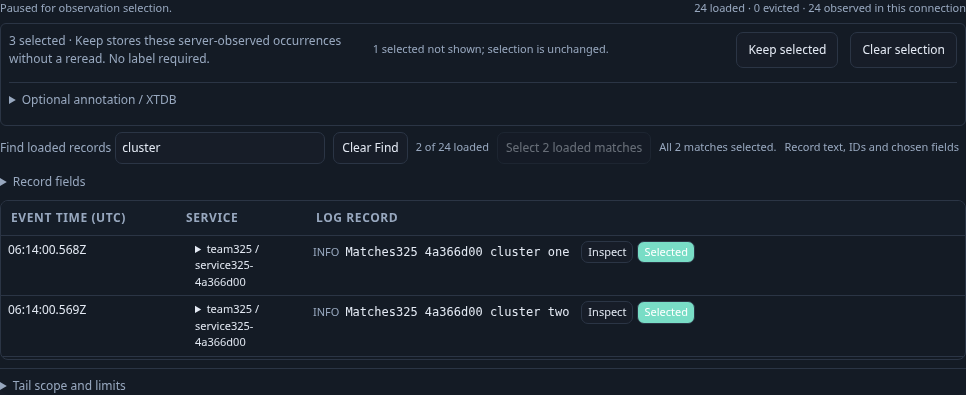
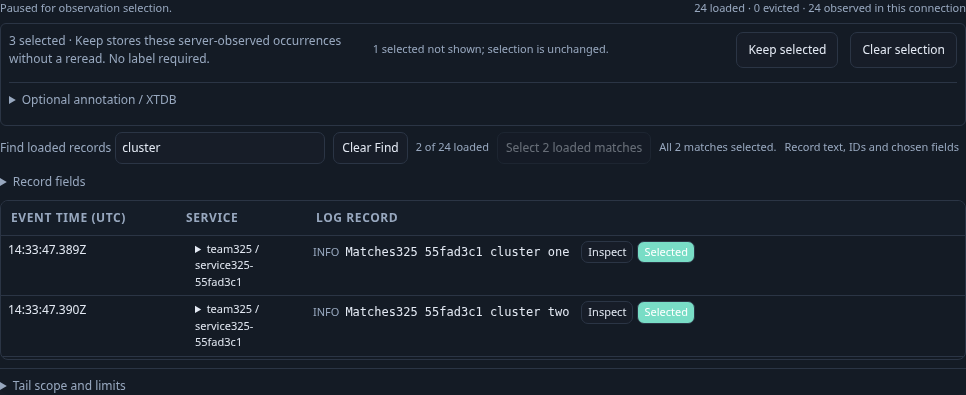
refactor: reuse Activity layout snapshots per selection pass

diff --git a/docs/reviews/LOADED_MATCH_SELECTION_BENCHMARK_326.md b/docs/reviews/LOADED_MATCH_SELECTION_BENCHMARK_326.md
@@ -1,0 +1,87 @@
+# Loaded-match selection: measured recurring work (326)
+
+This benchmark mounts the actual 325 `Tail.mount` in standalone Chromium. It
+serves a frozen copy of UI assets, feeds deterministic synthetic SSE rows, pauses
+the stream, and injects hidden selected references through the real `addMany`
+method. Those references model selection retained after eviction; this is a
+performance fixture, not a claim that the benchmark obtained server custody.
+No product endpoint, Docker service or journey wrapper is involved.
+
+Baseline Tail SHA-256:
[1 lines of base64/hex data omitted]
+Engine: Chromium 154.0.8037.57. Times below are **Chromium**, not Node timings.
+The timer wrapper measures the complete actual one-second `refreshSelection`
+callback. A `structuredClone` spy counts calls; a separate `planMany` wrapper
+attributes its work. Setup and rendering are excluded.
+
+| Paused fixture | Loaded bytes / rows | Hidden selected bytes / refs | Match state | Clones per idle tick | Three complete idle ticks (ms) |
+|---|---:|---:|---|---:|---|
+| Short success | 77,985 / 100 | 785 / 1 | 2 matches; union 3 | 106 | 13.1, 15.4, 8.3 |
+| Large overflow | 1,068,385 / 100 | 213,761 / 20 | 1 match; union 21 refused | 124 | 17.5, 7.0, 11.8 |
+| Same large fixture, no Find | 1,068,385 / 100 | 213,761 / 20 | Control hidden | 0 | 1.6, 1.3, 1.5 |
+
+Each nonempty-Find idle tick invoked `planMany` once; the no-Find control invoked
+it zero times. All fixtures remained within the actual 100-row/2-MiB tail bounds
+and the 20-reference selection bound. The overflow reason named the actual
+21-item union. There were no page exceptions or active-phase source reads/writes.
+
+The enabled short-case action took 11.2 ms, made 219 clone calls and three
+planner calls, and selected the expected union of three. The overflow and
+no-Find controls were disabled and did no invocation work. Three timer samples
+are enough to expose deterministic clone counts, not to establish a latency
+percentile; the wall times vary with host scheduling.
+
+The actual host repeatedly called `columnControl.layout()` inside the per-row
+matcher, adding roughly 100 small layout clones per tick. The measured large
+planner itself was much smaller than the whole callback (the initial separate
+three-tick run measured 1.3, 3.7 and 1.9 ms). This supports taking one layout
+snapshot per operation. It does **not** establish a need for advisory caching,
+clock-based validity caching or skipped proof preflight.
+
+Reproduce (installed Chromium and Playwright required):
+
+```sh
+node scripts/benchmark_batch_selection.mjs /tmp/batch-selection.json all
+```
+
+`CHROMIUM_PATH` can override `/usr/bin/chromium`. To reproduce the baseline with
+the current measurement script, extract the complete prior UI into a temporary
+directory and point `BENCH_UI_DIR` to it:
+
+```sh
+mkdir -p /tmp/goo-325-baseline
+git archive 4cfffc7 ui | tar -x -C /tmp/goo-325-baseline
+BENCH_UI_DIR=/tmp/goo-325-baseline/ui node scripts/benchmark_batch_selection.mjs /tmp/batch-before.json all
+```
+
+`BENCH_UI_DIR` selects an immutable UI copy for paired measurements. The script removes its temporary
+server/assets on both success and startup failure. Raw baseline results for this
+session are `/tmp/goo-batch-selection-baseline-all.json` and
+`/tmp/goo-batch-selection-after-all.json`. The frozen UI copy was removed after
+paired review; temporary server copies are removed by the script.
+
+## Paired result after the bounded refactor
+
+The refactor changes only per-operation layout snapshots and removes the unused
+preflight plan from captured button state. Proof preflight still runs on every
+applicable idle tick and again on activation. No validity cache was added.
+After Tail SHA-256:
[1 lines of base64/hex data omitted]
+The engine, all fixture counts/bytes, visible match counts, hidden-selection
+counts and enabled/refused outcomes matched exactly. No page exceptions,
+active-phase source reads or writes occurred.
+
+| Fixture | Before → after clone calls per tick | After three complete ticks (ms) | Planner calls per tick |
+|---|---:|---|---:|
+| Short success | 106 → 6 | 22.0, 62.0, 15.5 | 1 |
+| Large overflow | 124 → 24 | 18.7, 24.3, 5.9 | 1 |
+| Same large fixture, no Find | 0 → 0 | 7.3, 2.3, 1.3 | 0 |
+
+The successful click dropped from 219 to 19 clone calls and still invoked the
+planner three times and selected three observations. Its elapsed time was
+17.7 ms after versus 11.2 ms before. Both disabled controls still did no
+invocation work.
+
+These results establish the deterministic reduction in redundant clone calls,
+**not a latency improvement**: the after elapsed samples were noisier and often
+slower. Three samples do not justify percentile, speedup or memory claims. The paired run followed the full regression checks.

diff --git a/docs/reviews/KEPT_CONTINUATION_DESIGN_327.md b/docs/reviews/KEPT_CONTINUATION_DESIGN_327.md
@@ -1,0 +1,74 @@
+# Continue from a kept observation — design proposal 327
+
+Status: proposed bounded general-purpose task; no implementation or browser work.
+
+## Missing task
+
+A responder reopens kept evidence and wants to investigate its distributed trace.
+`ui/kept-saved.mjs` currently reconstructs original records and provenance, then
+offers Inspect kept record only. Preservation is useful, but the investigation
+stops at that inspector. Reuse the existing staged records-only Waterfall rather
+than adding another trace browser, capture type or catalog.
+
+## Interaction
+
+Offer **Open trace as view** inside the individual kept-record inspector, adjacent
+to existing observation actions. This gives the action the member's exact window
+and provenance context, avoids adding buttons to every catalog/table row and works
+for kept logs carrying a TraceId as well as kept spans.
+
+Stage a span question using the validated member's original read window, checked
+typed environment policy and valid nonzero TraceId. For result-page/capture keeps,
+use the validated question's fixed window already mapped to that member. Select
+existing Waterfall presentation, offset zero and ordinary record limits. Do not
+substitute the keep custody time, event timestamp or present clock for the stored
+read window. Do not infer an environment from one raw resource key.
+
+The trace question deliberately expands beyond the original record predicates,
+service and span restrictions: retaining those could hide ancestors or other
+services. Retain environment/window/TraceId only, with a concise **New trace
+question · original observation window; kept evidence unchanged** statement and
+existing scope details identifying original filters not carried. No automatic
+source read or Keep occurs. Existing explicit **Run** acquires the trace.
+
+Invalid/missing TraceId or unsupported checked scope shows one concise unavailable
+reason in that inspector. Refuse before side effects; no manual fallback silently
+changes the environment/window. A missing source trace after Run means no current
+matching source rows, not that the stored observation ceased to exist.
+
+## Evidence and navigation
+
+Keep frozen Kept at, Observed at, stored read basis and original occurrence
+identity intact. The new view's result has its own source-read clock, coverage and
+readiness. It is a fresh read of an old fixed question, not a reconstruction from
+kept records or a complete frozen trace. Explicit Run can legitimately return
+changed, expired or unavailable source data. Existing presentation uncertainty
+must communicate those states without a second evidence card/wall of prose.
+
+A named **Back to kept observation** returns to the same retained inspector,
+member, selection/table scroll and opener with zero telemetry reads. Reopening
+from the catalog does not promise a still-retained paused Activity stream; its
+return owner is the kept observation, not a fabricated Activity ancestry. Reuse
+existing retained child navigation/focus ownership and one deepest Back action.
+
+Action validity requires active generation, current stored member and actual
+visibility. Detached/reattached hidden controls cannot stage a new question;
+return/disposal invalidates pending child work. Late source completion cannot
+replace the restored kept view. Kept bytes/digest and custody fields remain
+unchanged through stage, Run, Back and failures.
+
+## Bounded acceptance
+
+Use both a kept log and a kept span with typed environment policy and cross-service
+trace ancestry. Reopen through server catalog (not only browser recent links),
+inspect one original member, stage zero-IO Waterfall, explicitly Run, then return
+without rereading kept/source data. Verify original exact window/policy, omitted
+original filters, real cross-service ancestor/sibling visibility and new read clock.
+Keep storage bytes/digest unchanged. Exercise invalid TraceId, unavailable source,
+stale hidden action and return during read with no fallback or unexpected mutation.
+
+Maintain three actual frames: kept inspector with contextual action/provenance,
+staged original-window trace question and freshly read Waterfall with distinct
+source clock. Native assertions establish zero-IO staging/return and immutable
+custody separately from visual proof. This proposal needs no new backend
+preservation format, grammar family, query syntax, registry or compatibility shim.

diff --git a/docs/reviews/SELECTION_AVAILABILITY_ARCHITECTURE_326.md b/docs/reviews/SELECTION_AVAILABILITY_ARCHITECTURE_326.md
@@ -1,0 +1,70 @@
+# Selection availability work — architecture 326
+
+Status: frozen source review accepted; generated regressions pass.
+
+## Measured scope
+
+325's atomic selection planner remains authoritative and unchanged. The actual
+browser baseline uses 100 loaded rows (1,068,385 bytes) and twenty hidden selected
+observations (213,761 bytes), with a refused 21-member union. Three full refresh
+ticks took 7.9/24.5/8.2 ms and made 124 structured clones each. Isolated planner
+work took 1.3/3.7/1.9 ms and 23 clones. These are local measured observations, not
+whole-product latency claims.
+
+The bounded correction snapshots RecordColumns.layout once per applyFind and
+batchState, reusing its selected fields through that synchronous projection and
+signature. This removes repeated layout cloning inside the 100-row loop. Remove
+the unused plan property from returned batch state as well, so button closures
+cannot retain a detached record Map that they never use.
+
+Do not introduce a readiness cache. The measured planner share does not justify
+new expiry/ABA assumptions or a second noncloning admission path. Full union proof,
+conflict, capacity, scope, connection and expiry validation remains on every
+readiness check and click, and addMany independently replans before atomic commit.
+No publication/source owner, pure API, cached authority or compatibility layer
+changes. Reusing one local layout snapshot is not retaining state between calls.
+
+## Review and validation
+
+Inspect the exact source edit for one layout snapshot per function, identical
+chosen-field projection/signature, discarded local plan output and unchanged
+currentness/refusal/commit/focus behavior. Compare equivalent browser inputs and
+report clone reductions separately from variable timings. Existing 324 Find state
+and 325 atomic-selection generated properties cover semantic regression; focused
+mount tests and source/write counters cover actual readiness behavior. A new model
+or property API is unnecessary for this local structural change.
+
+## Next general-purpose outcome
+
+Continue an investigation from a kept observation. `ui/kept-saved.mjs` currently
+offers only local Inspect; each stored member already has checked policy, original
+window and reported trace identity. An explicit source-free Open trace as view can
+reuse RecordResults.traceView and the existing staged question/view owner, then
+require Run for fresh telemetry. Tail members use their own observation windows;
+kept result-page members use the original fixed query. Keep frozen provenance
+separate and never claim retained rows are a current or complete trace.
+
+Captures.mount already receives app-owned openRecordQuestion. Extend that explicit
+handoff with a view option/callback, calling openQuestion(view.queries[0],[],
+{stage:true,view}); do not dispatch an event whose default path automatically runs.
+Guard kept ID/show generation/member position/visibility and preserve invalid-ID
+refusal. Any claim of local zero-read Back needs a retained restore seam: current
+#kept hash handling otherwise rereads the stored receipt, even without telemetry.
+This advances Keep→reopen→continue without another selection microtask or store.
+
+
+Final frozen source review accepts the exact local diff: applyFind takes one
+field-layout snapshot before its loop; batchState takes one layout snapshot for
+matching and signature. Both remain synchronous and read-only. PlanMany still runs
+for readiness, and click plus addMany retain independent full validation. Removing
+the private returned plan eliminates unused detached-map retention without changing
+candidate references, action leases or selection contents. Existing generated
+regressions pass; no new pure API or semantic property file was added.
+
+
+The existing TestHegelHeldFindState324 and
+TestHegelLoadedMatchSelectionAtomic325 regressions pass together in 34.595 seconds:
+30 generated cases each, sixty total, zero skips. Pure matching, loaded/hidden
+selection invariants, exact proofs, detached planning, cap/expiry/conflict refusal
+and atomic commit remain unchanged. Actual browser after-measurements and source/
+publication budgets are recorded separately in VALIDATION.

diff --git a/VALIDATION.md b/VALIDATION.md
@@ -1,5 +1,18 @@
 # Validation record
 
+## Per-pass selection work — 326
+
+[Measurement](docs/reviews/LOADED_MATCH_SELECTION_BENCHMARK_326.md) · [architecture](docs/reviews/SELECTION_AVAILABILITY_ARCHITECTURE_326.md) · [existing task](docs/journeys/325-select-loaded-matches.md).
+
+- Full Go suite and all 1,066 frontend tests pass (66.716 seconds, concurrency two, zero frontend failures/skips). Existing Find and atomic-selection Hegel regressions pass together: sixty generated cases, 34.595 seconds, zero skips. The only product change is one chosen-column layout snapshot per synchronous projection/matching pass and removal of the unused private returned plan. Matching, original references, full readiness/click preflight, atomic commit, expiry and command leases remain unchanged; no cache, admission API, endpoint or format is added.
+- A reproducible standalone Chromium 154 benchmark measures the actual Tail.mount one-second refresh callback using bounded synthetic fixtures. The baseline short case has 100 loaded rows / 77,985 bytes plus one hidden selected occurrence; the large case has 100 rows / 1,068,385 bytes plus twenty hidden selected occurrences / 213,761 bytes. Those selected refs model post-eviction retention through real addMany setup, not server-issued custody. Three ticks per case establish deterministic clone counts, not a latency percentile or production performance claim. Genuine OTLP custody/source validation remains the native lane.
+- CA-enabled build/recreation passes. Served tail.mjs and unchanged OpenAPI match source byte-for-byte; full tests and packaging finish before after-measurement/native browser runs.
+- Paired Chromium inputs/results match independently: each of three short-case ticks drops from 106 to 6 clone calls, and the large overflow case from 124 to 24; no-Find remains zero. Enabled action drops from 219 to 19 clone calls while retaining three planner calls and the same three-item union. Every nonempty-Find idle tick still runs the planner once, and active-phase source/write counts remain zero. After samples include slower wall times; this establishes reduced cloning and equivalent task behavior, not a latency improvement. No advisory cache was added.
+
+- The unchanged real-OTLP task passes in 52.5 seconds (54.8 runner). Both signals retain original occurrence keys/records/windows through explicit Keep; overflow refusal, hidden selection, zero/all-selected states, retired Find/layout/selection/signal controls and success focus still pass. The sixteen local checkpoints issue zero API calls. Main POSTs remain two explicit tails, two Keeps and one Activity-view save, with no Explore/planning/annotation calls or page errors.
+- The configured thirty-second Bombadil regression passes in 30.126 seconds wall, exit zero: 402 snapshots covering phases 0–8, final verified paused three-item selection, one explicit tail and zero writes. Independent raw review confirms stability, source bounds and no violations/overflow throughout. Design compared all three regenerated frames against 325 and accepted unchanged geometry/controls/counts/state; timestamps and fixture IDs naturally differ. Raw browser/store/actor bulk is removed after review; compact summaries and maintained frames remain, traffic restored.
+
+
 ## Atomic selection of loaded Find matches — 325
 
 [Contract](docs/LOADED_MATCH_SELECTION.md) · [journey](docs/journeys/325-select-loaded-matches.md) · [architecture](docs/reviews/LOADED_MATCH_SELECTION_ARCHITECTURE_325.md) · [design](docs/reviews/LOADED_MATCH_SELECTION_DESIGN_325.md).

diff --git a/docs/ROADMAP_2026_11_03.md b/docs/ROADMAP_2026_11_03.md
@@ -314,15 +314,31 @@ Freshness guards reject retired controls; selection adds no reads or writes.
 Existing explicit Keep remains the only preservation write. See the
 [contract](LOADED_MATCH_SELECTION.md).
 
-### Next — consolidate selection availability work
+### 326 — consolidate per-pass selection work
 
-Measure the actual paused Activity availability refresh with representative loaded
-records and a selected set retained after eviction. The depth implementation
-currently deep-clones the union when recomputing batch availability each second.
-Only optimize if the measurement demonstrates meaningful cost; retain authoritative
-click-time validation, expiry and stale-command refusal. Do not create cached
-selection authority, a universal source manager or compatibility adapters. If the
-cost is negligible, choose the next demonstrated usability/ownership seam instead.
+**Delivered and validated.** Full suites, sixty generated cases, equivalent browser
+fixtures and the real log/span journey plus nonvacuous actor pass.
+The actual browser measurement found 106–124 clone calls per nonempty-Find
+refresh, mostly repeated column-layout snapshots. Take one layout snapshot per
+projection and reuse it for matching/signature; discard the unused returned
+selection plan. Full union preflight still runs on every readiness check and
+click. The measured planner share does not justify caching or a second admission
+API. See [measurement](reviews/LOADED_MATCH_SELECTION_BENCHMARK_326.md) and
+[architecture](reviews/SELECTION_AVAILABILITY_ARCHITECTURE_326.md).
+
+### Next general purpose — continue from kept observations
+
+Reopened kept evidence currently stops at inspection. Add a contextual **Open
+trace as view** in the kept-record inspector, using the original member's read
+window, checked environment policy and reported TraceId. Stage the existing span
+Waterfall and require explicit Run for a new source read; omit original row
+predicates so the trace can expand across services. Preserve frozen kept evidence
+and clearly distinguish the fresh query/result. Provide a retained Back to the
+same kept observation without a telemetry or stored-evidence reread. Reuse the
+existing trace builder and question/view owner; no new trace browser or store.
+Review receipt/member generation, invalid IDs, typed policies, source demand and
+late response cancellation before implementation. See the
+[design proposal](reviews/KEPT_CONTINUATION_DESIGN_327.md).
 
 ## Explicitly deferred contracts
 

diff --git a/docs/reviews/SELECTION_LAYOUT_DESIGN_326.md b/docs/reviews/SELECTION_LAYOUT_DESIGN_326.md
@@ -1,0 +1,28 @@
+# Selection layout regression review — 326
+
+Status: frozen source and all three regenerated actual-frame comparisons accepted.
+
+The source-only consolidation reads one detached column layout per synchronous
+Find/filter pass instead of cloning the same layout for each row, and stops
+retaining an unused preflight plan on batch presentation state. The checked union
+is still recomputed at activation; it does not become cached mutation authority.
+
+No labels, markup, styles, focus handoff, pause/Find behavior, selection limits,
+command leases or Keep ownership change. The 325 contract therefore remains the
+acceptance basis. Measured clone reductions are work-count evidence, not a user
+latency promise; noisy wall-time measurements do not establish responsiveness.
+Compare the same three actual 325 journey frames against the previous committed
+frames after the sole verifier regenerates them. No new product requirements,
+product/browser edits or layout changes are part of this review.
+
+## Regenerated actual-frame comparison
+
+Accepted all three regenerated 325 frames against the committed `4cfffc7`
+versions, viewed as before/after pairs. Control placement, visible focus, row
+geometry, counts, refusal copy and hidden-selection/kept state remain equivalent.
+The overflow still shows 21/24 matches plus one hidden selection and refuses a
+22-item union; cluster union remains three selected with two visible; span Keep
+remains three original observations with one hidden. Only expected run-specific
+UTC values and fixture identifiers changed. No visible regression or new layout
+requirement was found. Native focus/custody/source assertions are reported by the
+verifier separately; final actor exit is not inferred from these images.

diff --git a/docs/journeys/325-select-loaded-matches.md b/docs/journeys/325-select-loaded-matches.md
@@ -21,3 +21,6 @@ The first signal loaded all 24 real logs. While live, the action was disabled wi
 The separate actor used a genuine UI-saved Activity view and three fresh OTLP logs. It passed after 30.100 seconds (30 seconds configured), with 443 snapshots across phases 0–8. Its one explicit tail ended paused; the hidden-singleton plus two-match union stayed at three, with verified stable records/windows, zero writes and no overflow. It also reattached a retired batch control to check that stale connected controls cannot operate on the current owner. Fixture ingestion/readiness and actor counters remain separate from the main UI.
 
 No completeness, source-search or bulk-query claim follows from selecting the loaded matches. The independently reviewed raw campaign/browser artifacts and temporary stores were removed. Compact summaries and these three maintained frames remain; the wrapper restored its traffic generator.
+
+
+The 326 ownership/performance consolidation reran this unchanged real OTel task and regenerated the same three frames. It passed in 52.527 seconds (54.758 seconds including the runner). The main ledger remained two tails, two Keeps and one UI Activity save, with 16 local zero-API checkpoints and no page errors. Its separate 30-second actor exited zero after 30.126 seconds, with 402 snapshots across phases 0–8, one tail, zero writes and the same verified paused three-occurrence union. This is a correctness regression; these task durations do not establish a latency improvement. The separate bounded performance comparison measures clone work, not a universal browser-speed claim.

diff --git a/docs/LOADED_MATCH_SELECTION.md b/docs/LOADED_MATCH_SELECTION.md
@@ -41,3 +41,8 @@ See the [executable journey](journeys/325-select-loaded-matches.md),
 [architecture review](reviews/LOADED_MATCH_SELECTION_ARCHITECTURE_325.md),
 [design review](reviews/LOADED_MATCH_SELECTION_DESIGN_325.md) and
 [validation](../VALIDATION.md).
+
+326 consolidates repeated layout reads: each matching/projection pass takes one
+detached chosen-column snapshot. The batch control no longer retains an unused
+detached record plan. Full readiness and click-time validation remain unchanged;
+there is no readiness cache. See the [bounded browser measurement](reviews/LOADED_MATCH_SELECTION_BENCHMARK_326.md).
